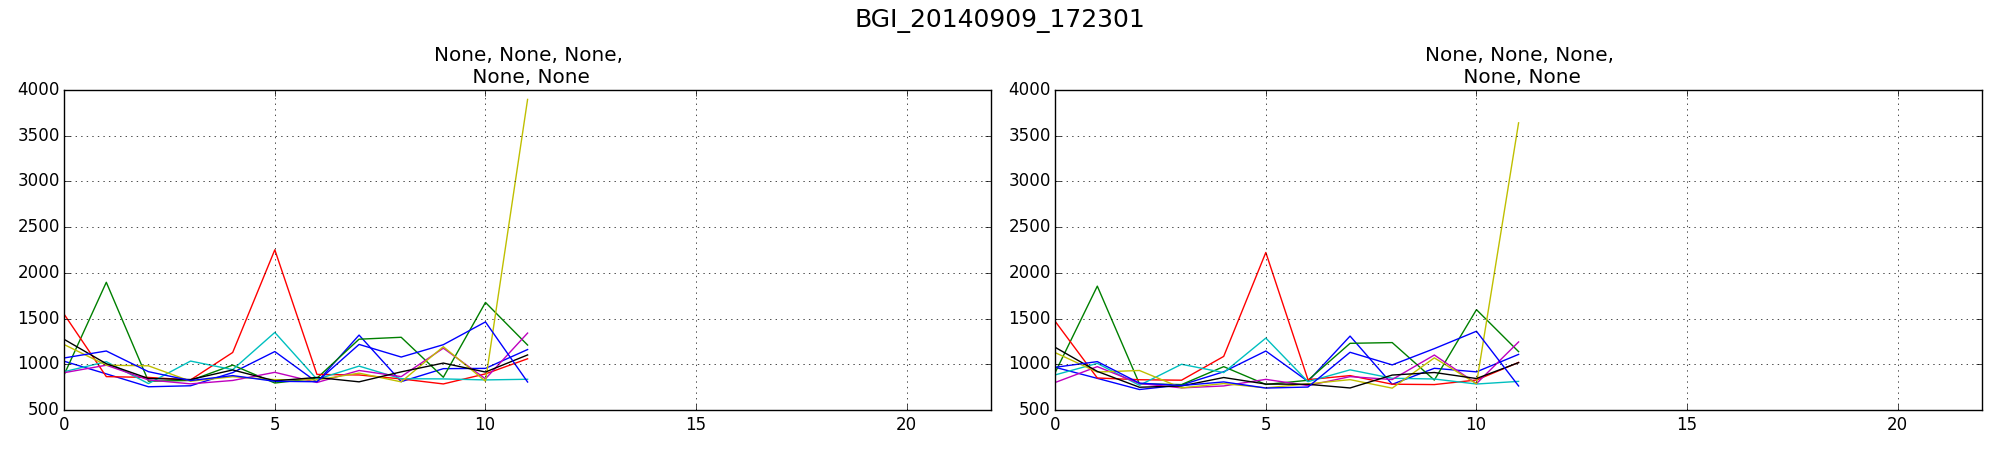
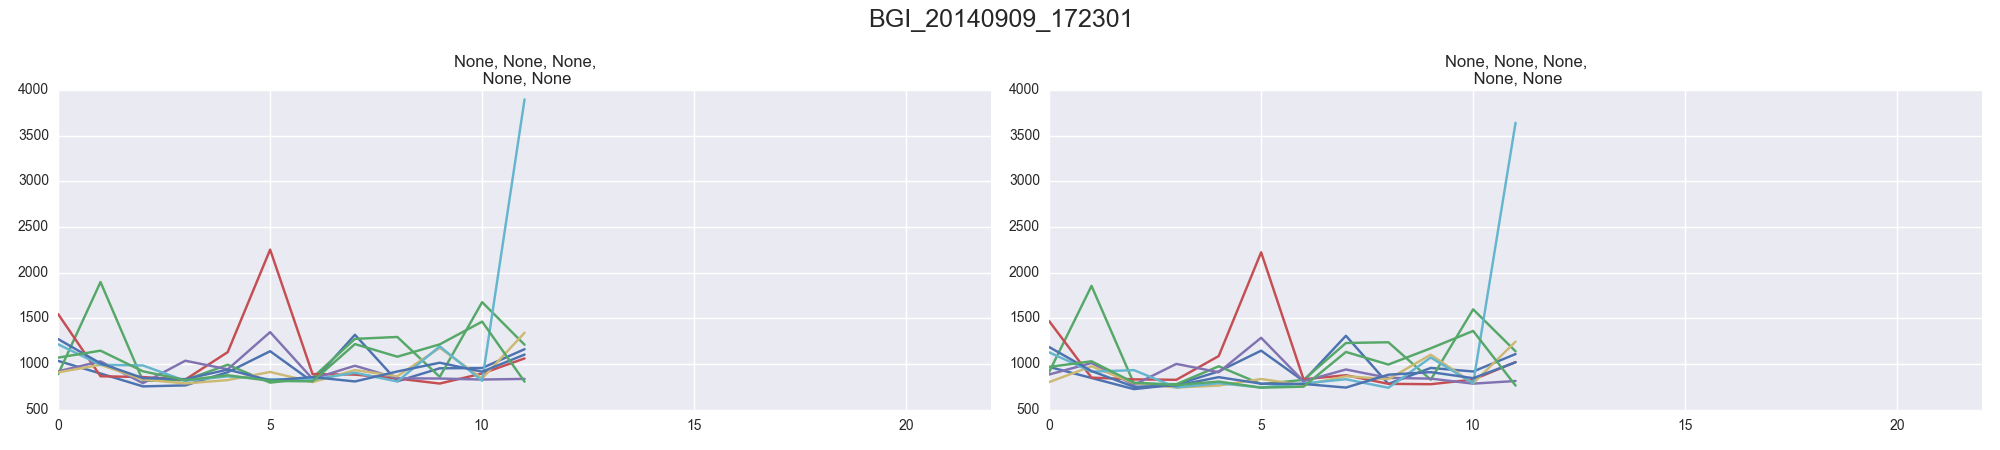
Updated plotting scripts to use seaborn (continued)

diff --git a/scripts/xml2png.py b/scripts/xml2png.py
@@ -1,4 +1,4 @@
-# This script takes xml data file output from the Tecan Infinite m1000 Pro plate reader 
+# This script takes xml data file output from the Tecan Infinite m1000 Pro plate reader
 # and makes quick and dirty images of the raw data.
 
 # The same procedure can be used to make matrices suitable for analysis using
@@ -21,6 +21,7 @@
 
 import numpy as np
 import matplotlib.pyplot as plt
+import seaborn
 from lxml import etree
 import pandas as pd
 import sys
@@ -123,7 +124,7 @@ def process_files(xml_files):
         fig, axes = plt.subplots(nrows=1,ncols=len(Sections), figsize=(20,4.5))
 
         for i, sect in enumerate(data):
-            sect['dataframe'].plot(title = sect['title'] , ax = axes[i], legend=False )
+            sect['dataframe'].plot(title = sect['title'], ax = axes[i], legend=False )
 
         fig.tight_layout()
         fig.subplots_adjust(top=0.8)

diff --git a/scripts/xml2png4scans.py b/scripts/xml2png4scans.py
@@ -25,6 +25,7 @@ import matplotlib.pyplot as plt
 from lxml import etree
 import pandas as pd
 import matplotlib.cm as cm
+import seaborn
 import sys
 import os
 
